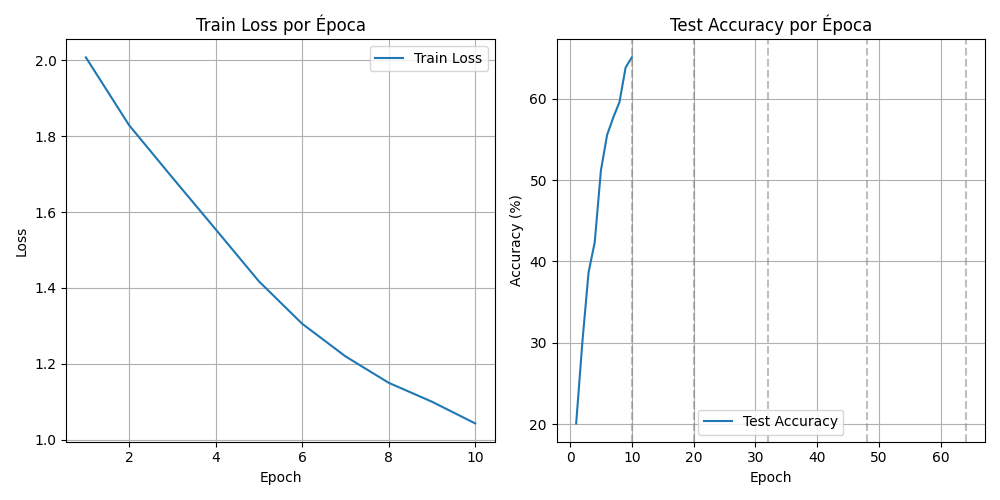
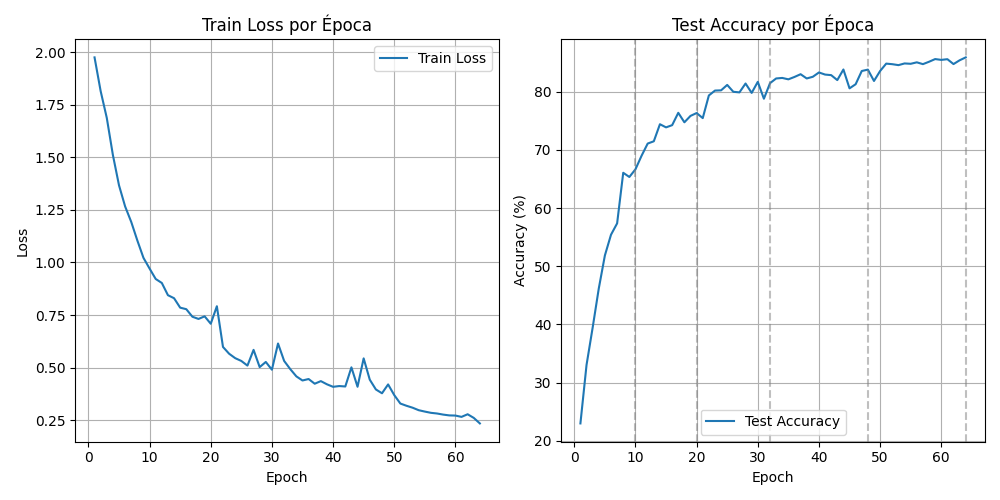
initial commit

diff --git a/script.py b/script.py
@@ -110,11 +110,12 @@ test_loader = DataLoader(dataset=test_dataset, batch_size=64, shuffle=False)
 model = VGG16().to(device)
 criterion = nn.CrossEntropyLoss()
 optimizer = optim.Adam(model.parameters(), lr=0.001)
+scheduler = torch.optim.lr_scheduler.ReduceLROnPlateau(optimizer, mode='max', factor=0.5, patience=3)
 
 import time
 
 # Training the model
-num_epochs = 32
+num_epochs = 64
 total_start = time.time()  # Tiempo inicial del entrenamiento
 
 train_losses = []
@@ -159,6 +160,8 @@ for epoch in range(num_epochs):
             correct += (predicted == labels).sum().item()
     accuracy = 100 * correct / total
     test_accuracies.append(accuracy)
+
+    scheduler.step(accuracy)
 
     # Guardar el mejor modelo
     if accuracy > best_accuracy:
